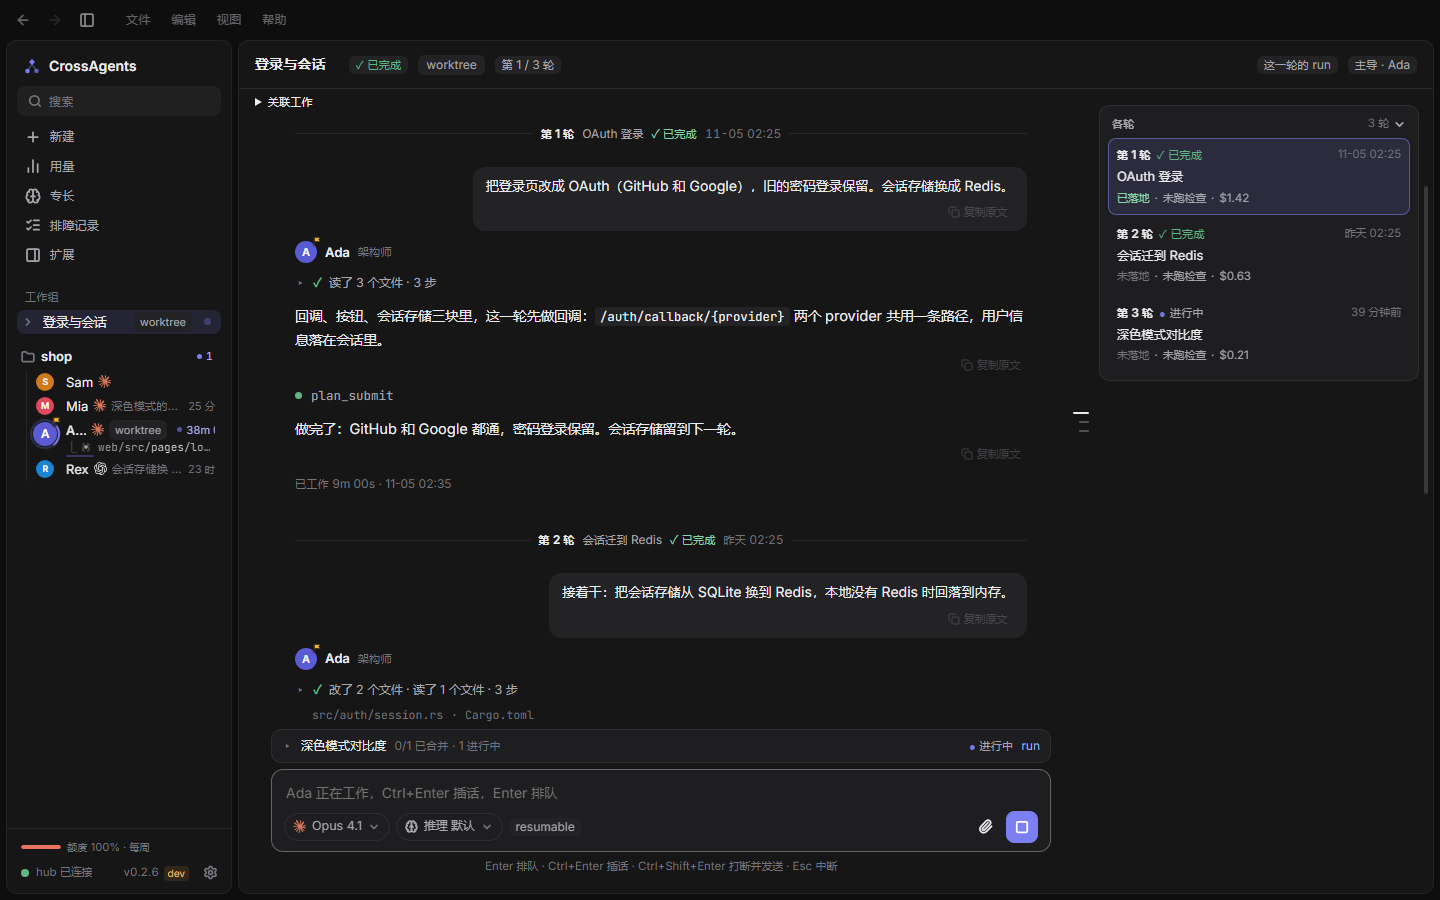
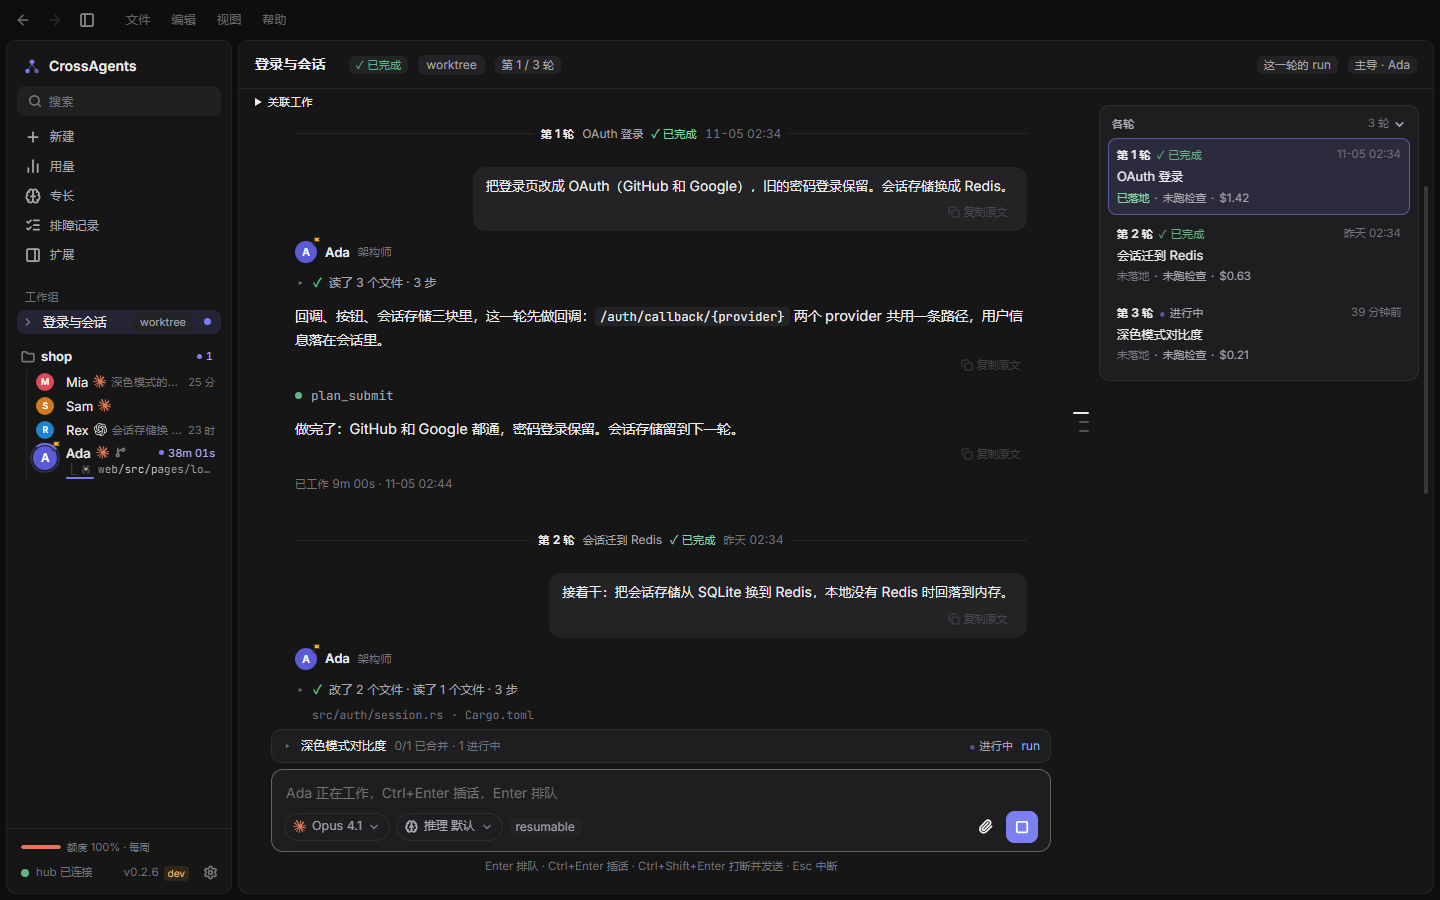
work-page: G1-4：#/work/<id> 页、轮次分隔、各轮窗格、侧栏一组一行，并区分原地 run

Changed region(s): [[0.0, 0.4044, 0.1562, 0.5289]]

diff --git a/apps/gui/src/Sidebar.tsx b/apps/gui/src/Sidebar.tsx
@@ -11,7 +11,7 @@ import { buildTag, compareBuilds } from "./lib/build";
 import { useUpdateState } from "./lib/updates";
 import { Avatar, BrandMark, Icon, ModelMark, ago, displayName, isAgent, sessionHref } from "./components";
 import { useConnectionStatus, useHubData } from "./hub";
-import { RunModeTag } from "./runmode";
+import { RunModeMark, RunModeTag, modeWords } from "./runmode";
 import { runState } from "./lib/taskState";
 import { RowElapsed, usePulseSeeds, useRowLive } from "./liveTurn";
 import { t } from "./lib/i18n";
@@ -606,6 +606,8 @@ function SessionRow({ member, active }: { member: SidebarMember; active: boolean
   const runs = useContext(Runs);
   const work = useMemo(() => sessionWork(agent.id, runs), [agent.id, runs]);
   const plan = work.lead?.tasks ?? [];
+  // Where the run it leads works: one small glyph, since the name has to stay readable here.
+  const mode = work.lead ? modeWords(work.lead.run) : undefined;
   // A turn that just ended lights its row once: finishing is worth noticing, not worth keeping.
   const wasRunning = useRef(running);
   const [justDone, setJustDone] = useState(false);
@@ -634,7 +636,19 @@ function SessionRow({ member, active }: { member: SidebarMember; active: boolean
       compact={compact}
       flash={justDone}
       peek={peek}
-      title={displayName(agent) + " · " + status + (fresh || failed ? " · " + t("sidebar.unread") : "") + (agent.model ? " · " + agent.model : "") + "\n" + (summary || t("sidebar.noActivity")) + "\n" + t("sidebar.besideHint")}
+      title={
+        displayName(agent) +
+        " · " +
+        status +
+        (fresh || failed ? " · " + t("sidebar.unread") : "") +
+        (agent.model ? " · " + agent.model : "") +
+        (mode ? " · " + mode.label : "") +
+        "\n" +
+        (summary || t("sidebar.noActivity")) +
+        (mode ? "\n" + mode.title : "") +
+        "\n" +
+        t("sidebar.besideHint")
+      }
       dot={undefined}
       pinKey={sessionKey(agent)}
       beside={agent.id}
@@ -651,7 +665,7 @@ function SessionRow({ member, active }: { member: SidebarMember; active: boolean
         <span className="member-top">
           <span className={"member-name " + (flagged ? "strong" : "")}>{displayName(agent)}</span>
           <ModelMark plugin={agent.plugin} model={agent.model} />
-          {work.lead && <RunModeTag run={work.lead.run} compact className="row-mode" />}
+          {work.lead && <RunModeMark run={work.lead.run} className="row-mode" />}
           {compact ? <span className="member-inline" data-crawl="">{summary}</span> : <span className="member-gap" />}
           {plan.length > 0 && !running && !(!uncertain && needs > 0) && <span className="member-count">{plan.filter((task) => task.status === "merged").length}/{plan.length}</span>}
           {quiet && !plan.length && member.lastAt && <span className="member-time" title={ago(member.lastAt)}>{shortSince(member.lastAt, Date.now())}</span>}

diff --git a/apps/gui/src/runmode.tsx b/apps/gui/src/runmode.tsx
@@ -5,6 +5,7 @@
 
 import type { Run } from "@bindings/Run";
 import type { RunMode } from "@bindings/RunMode";
+import { Icon } from "./components";
 
 /** The mode a run works in; runs recorded before the split carry only `in_place`. */
 export function modeOf(run: Pick<Run, "mode" | "in_place">): RunMode {
@@ -51,6 +52,26 @@ export function RunModeTag({ run, compact = false, className = "" }: { run: Pick
       data-mode={place}
     >
       {label}
+    </span>
+  );
+}
+
+/**
+ * The same fact where a row has no room for words: one small glyph — a folder for the person's
+ * own directory, a branch for the hub's worktree — with the whole explanation as its tooltip.
+ */
+export function RunModeMark({ run, className = "" }: { run: Pick<Run, "mode" | "in_place">; className?: string }) {
+  const { label, title } = modeWords(run);
+  const place = modeOf(run).lead;
+  return (
+    <span
+      className={`mode-mark ${place === "in_place" ? "in-place" : "worktree"} ${className}`.trim()}
+      title={title}
+      role="img"
+      aria-label={label}
+      data-mode={place}
+    >
+      <Icon name={place === "in_place" ? "folder" : "branch"} size={11} />
     </span>
   );
 }

diff --git a/apps/gui/src/work.css b/apps/gui/src/work.css
@@ -22,6 +22,25 @@
   font-size: 11px;
 }
 
+/* Where a row has no room for the word: the same fact as a glyph, with its tooltip. */
+.mode-mark {
+  display: inline-flex;
+  align-items: center;
+  justify-content: center;
+  flex: none;
+  width: 14px;
+  height: 14px;
+  color: var(--muted);
+}
+.mode-mark.in-place {
+  color: var(--warn-text);
+}
+/* At the sidebar's narrowest the name must stay readable: the glyph gives way (the work group
+   row above still carries the word, and the row's tooltip keeps the explanation). */
+.app.sidebar-tight .mode-mark {
+  display: none;
+}
+
 /* ---- The page's header --------------------------------------------------------------- */
 
 .work-topbar .title {

diff --git a/apps/gui/src/App.tsx b/apps/gui/src/App.tsx
@@ -275,7 +275,7 @@ export function App() {
   const below = !!tools && !floatTools && bottom.open && bottom.tabs.some(shows);
   const app = (
     <div
-      className={`app ${drawer ? (floatTools ? "drawer-float" : "with-drawer") : ""} ${sidebar.docked ? "" : "no-sidebar"}`}
+      className={`app ${drawer ? (floatTools ? "drawer-float" : "with-drawer") : ""} ${sidebar.docked ? "" : "no-sidebar"} ${widths.sidebar < 215 ? "sidebar-tight" : ""}`}
       style={{ "--sidebar-width": `${widths.sidebar}px`, "--tools-width": `${widths.tools}px`, "--bottom-height": `${widths.bottom}px` } as CSSProperties}
     >
       {sidebar.docked && <Sidebar route={route} />}
